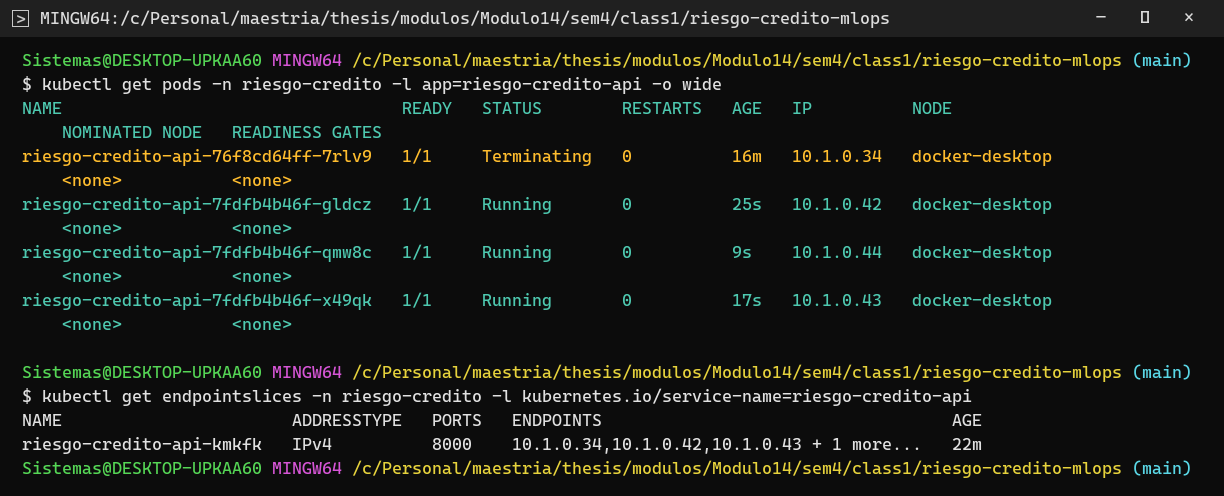
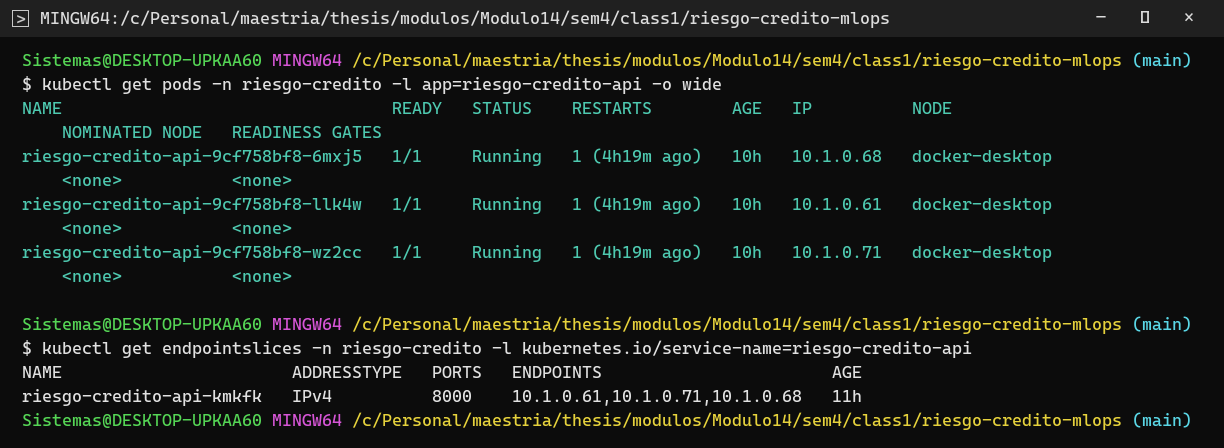
docs: correcciones de la revisión final (selección de modelos, compuerta, probes, estrategias de despliegue, nivel de madurez)
- La ganancia del boosting sobre el bosque se declara pequeña y no concluyente
  (DeLong pareado z≈2.5, inflado por elegir sobre la misma prueba) y se desempata
  por la restricción de latencia de predicción; configuraciones reales del
  boosting (max_iter es tope: early stopping en 103/49/104 árboles).
- Compuerta: el 0.75 es un piso conservador (0.71 + 0.04, 4-5 errores estándar),
  no «dos errores estándar»; comentario de registrar.py corregido.
- PR-AUC: se reconoce que la tabla de la clase pone mora → PR-AUC y se justifica
  el uso de roc_auc; pr_auc da el mismo orden entre familias.
- Probes en ARQUITECTURA (liveness en /vivo), rolling update no es blue-green,
  canary para riesgo de comportamiento; nivel de madurez 0 avanzado, en camino al 1.
- Evidencia de las 3 réplicas retomada con el clúster estable; pies de figura
  ajustados a lo que muestran (escalado, compuerta, cambio de versión).
- demo_cambio_version.sh usa el python del venv; armar_zip.py arma la entrega
  con la estructura docs/; publicar_repo.ps1 lo invoca; autor del Word.

diff --git a/docs/herramientas/build_informe.js b/docs/herramientas/build_informe.js
@@ -150,7 +150,7 @@ add(
     ["Documentación", "README.md, ARQUITECTURA.md, este informe y las evidencias", "Omar Terceros"],
   ], { cols: [2200, 5400, 1700] }),
   espacio(),
-  p("Historial de commits (uno por componente, en orden). Nota sobre el historial: el código se desarrolló y probó primero en local y los siete primeros commits se crearon por componente al consolidar el trabajo (por eso comparten hora); los siguientes reflejan las iteraciones reales del día (ajustes de MLflow 3, calibración del concept drift, evidencias, informe y correcciones de la revisión)."),
+  p("Historial de commits (git log, del más reciente al más antiguo; el registro se tomó al generar este informe, así que el commit que lo actualiza se ve solo en el repositorio). Nota sobre el historial: el código se desarrolló y probó primero en local y los siete primeros commits se crearon por componente al consolidar el trabajo (por eso comparten hora); los siguientes reflejan las iteraciones reales del día (ajustes de MLflow 3, calibración del concept drift, evidencias, informe y correcciones de la revisión)."),
   archivo("docs/evidencia/salidas/00-git-log.txt", 40),
 
   h1("3. Fase 1 — Modelo, experimentación y trazabilidad con MLflow"),
@@ -165,19 +165,19 @@ add(
   bullet(`${RUNS.length} ejecuciones con distintos algoritmos e hiperparámetros, todas sobre la misma partición y con las mismas métricas, por lo que son comparables entre sí: tres regresiones logísticas (C = 0.01, 0.1, 1), dos random forest (100 árboles/profundidad 8 y 200/12) y tres hist gradient boosting (learning rate 0.05 y 0.1 con 200 iteraciones, y 0.1 con 400 iteraciones y profundidad 4).`),
   h3("Por qué estas tres familias y estos ocho runs"),
   p("La selección sigue el criterio del módulo para elegir una técnica: el dato decide la familia, la pregunta decide la tarea y la métrica, y la restricción decide antes que la precisión. Dentro de la familia, los modelos se prueban como una escalera de tres escalones (línea base, modelo sólido, modelo exigente) y solo se sube un escalón si gana al anterior en la métrica principal sobre el mismo conjunto de prueba: el modelo correcto es el más simple que gana."),
-  bullet("Dato: una tabla con etiqueta (30.000 filas, 23 columnas, objetivo mora). Para tablas la escalera es logística → bosque → boosting. Las redes neuronales no son el camino: en datos tabulares de tamaño mediano los árboles con boosting siguen ganando a las redes (Grinsztajn et al., 2022) y exigen GPU y ajuste fino. KNN, Naive Bayes y K-Means no aplican (K-Means es sin etiqueta; KNN y Naive Bayes no son escalón de ninguna escalera tabular con 23 variables mixtas)."),
+  bullet("Dato: una tabla con etiqueta (30.000 filas, 23 columnas, objetivo mora). Para tablas la escalera es logística → bosque → boosting. Las redes neuronales no son el camino: en datos tabulares de tamaño mediano los árboles con boosting siguen ganando a las redes (Grinsztajn, Oyallon y Varoquaux, 2022) y piden más ajuste sin ganar. KNN, Naive Bayes y K-Means no aplican (K-Means es sin etiqueta; KNN y Naive Bayes no son escalón de ninguna escalera tabular con 23 variables mixtas)."),
   bullet("Pregunta: ¿entrará en mora el mes siguiente, sí o no? Es clasificación binaria con clase minoritaria (22 %), así que la métrica debe medir cómo ordena el modelo a los clientes (roc_auc, pr_auc) y no la exactitud, que se infla con el 78 % de no morosos."),
   bullet("Restricción: una decisión de crédito que hay que poder explicar (por eso la logística se conserva registrada como versión base), un servicio en línea que responde en milisegundos sin GPU (modelos tabulares de scikit-learn y la variante hist del boosting) y una clase minoritaria (umbral de decisión configurable en el ConfigMap y pr_auc registrada junto al AUC en todos los runs)."),
   bullet("Escalón 1, la línea base obligatoria: regresión logística. Es el punto de partida de toda clasificación: entrega una probabilidad, se interpreta (un coeficiente por variable) y fija el rival a vencer. Se probaron tres valores de C (0.01, 0.1 y 1: tres órdenes de magnitud de regularización L2) para demostrar que el techo de la familia (0.708 a 0.710) no depende del ajuste sino de la linealidad: los atrasos PAY_* y los montos interactúan y una frontera lineal no lo captura."),
-  bullet("Escalón 2, el modelo sólido: random forest. Es el segundo escalón por defecto en tablas: funciona casi sin ajustar, captura no linealidades e interacciones y es estable. Se probaron dos tamaños (100 árboles con profundidad 8 y 200 con profundidad 12) para ver si crecer aporta: pasó de 0.7734 a 0.7739, es decir, la familia ya saturó. Gana a la logística por 0.064 de AUC, muy por encima del error de muestreo (~0.007 con 6.000 clientes): se sube el escalón."),
-  bullet("Escalón 3, el modelo exigente: hist gradient boosting. Se prueba solo porque el bosque ya ganó y quedaba margen; es el modelo de referencia hoy en tablas cuando la precisión importa más que la explicación, y exige validación y early stopping (scikit-learn lo activa solo con más de 10.000 filas). La variante hist (histogramas, la misma idea que LightGBM) se eligió por latencia y volumen. Tres configuraciones recorren la tensión learning rate × número de árboles × profundidad (0.05 con 200 iteraciones, 0.1 con 200, y 0.1 con 400 y profundidad 4). Mejoró al bosque en roc_auc (0.7797 frente a 0.7739) y en pr_auc (0.5568 frente a 0.5563) y entrena más rápido (0.4 s): por eso es el champion. La mejora es pequeña y se declara como tal en la sección 8."),
+  bullet("Escalón 2, el modelo sólido: random forest. Es el segundo escalón por defecto en tablas: funciona casi sin ajustar, captura no linealidades e interacciones y es estable. Se probaron dos tamaños (100 árboles con profundidad 8 y 200 con profundidad 12) para ver si crecer aporta: pasó de 0.7734 a 0.7739, es decir, la familia ya saturó. Gana a la logística por 0.064 de AUC, muy por encima del error de muestreo (~0.008 con 6.000 clientes; con la prueba pareada de DeLong la diferencia vale z ≈ 8.8): se sube el escalón."),
+  bullet("Escalón 3, el modelo exigente: hist gradient boosting. Se prueba solo porque el bosque ya ganó y quedaba margen; es el modelo de referencia hoy en tablas cuando la precisión importa más que la explicación, y exige validación y early stopping (scikit-learn lo activa solo con más de 10.000 filas). La variante hist (histogramas, la misma idea que LightGBM) se eligió por latencia y volumen. Tres configuraciones: learning rate 0.05 y 0.1 sin tope de profundidad (hasta 31 hojas por árbol) y 0.1 con profundidad 4; max_iter (200, 200 y 400) es solo un tope, porque con el early stopping automático se detuvieron en 103, 49 y 104 árboles, así que lo que de verdad varió fue el learning rate y la profundidad. Frente al bosque la ganancia es pequeña (roc_auc 0.7797 frente a 0.7739; pr_auc 0.5568 frente a 0.5563) y, aunque la prueba pareada de DeLong la da significativa (z ≈ 2.5, p ≈ 0.01), se trata como ganancia pequeña y no concluyente: el champion se eligió mirando esta misma prueba entre cinco modelos de árboles, lo que infla la significancia, y no hay validación cruzada. Por la regla de la escalera, ante un empate queda el escalón más simple; lo que inclina al boosting es la restricción declarada de latencia: con 104 árboles de profundidad 4 predice una fila en unos 6 ms, frente a unos 50 ms del bosque de 200 árboles de profundidad 12 (medido en esta laptop; no es una métrica del run), y además no pierde en ninguna métrica registrada. Si la latencia no importara, el bosque sería igual de defendible (sección 8)."),
   p("Escrita como se pide en el módulo, la justificación es una tabla de iteraciones con una fila de descartados, no una opinión:"),
   tabla(["Iteración", "Modelo", "Complejidad", "roc_auc", "pr_auc", "Entrena", "Decisión"], [
     ["Línea base trivial", "Clase mayoritaria (nadie entra en mora)", "ninguna", "0.500", "0.221", "—", "exactitud 0.78 sin servir para nada: rival mínimo"],
     ["Escalón 1", "Regresión logística (mejor: C = 1)", "baja, interpretable", "0.7100", "0.4948", "0.1 s", "gana a la trivial; queda como versión 1 (baseline y rollback)"],
     ["Escalón 2", "Random forest (200 árboles, profundidad 12)", "media", "0.7739", "0.5563", "1.5 s", "gana con claridad (+0.064 AUC): se sube"],
-    ["Escalón 3", "Hist gradient boosting (lr 0.1, profundidad 4, early stopping)", "alta", "0.7797", "0.5568", "0.4 s", "gana por poco en ambas métricas y es más rápido: champion (versión 2)"],
-    ["Descartado", "Red neuronal (MLP / deep learning)", "muy alta", "no evaluado", "—", "—", "tabla de 30.000 filas: no gana a los árboles (Grinsztajn et al., 2022) y pide GPU y ajuste"],
+    ["Escalón 3", "Hist gradient boosting (lr 0.1, profundidad 4, early stopping)", "alta", "0.7797", "0.5568", "0.4 s", "ganancia pequeña y no concluyente frente al bosque; la inclina la latencia de predicción (~6 ms frente a ~50 ms por fila): champion (versión 2)"],
+    ["Descartado", "Red neuronal (MLP / deep learning)", "muy alta", "no evaluado", "—", "—", "tabla de 30.000 filas: no gana a los árboles (Grinsztajn et al., 2022); entraría solo si venciera al bosque en la prueba: es el siguiente experimento"],
     ["Descartado", "KNN, Naive Bayes, SVM con kernel, árbol único", "—", "no evaluado", "—", "—", "no son escalón de la escalera tabular; el árbol solo es inestable; SVM con kernel no escala a 24.000 filas"],
   ], { cols: [1150, 2250, 1100, 800, 750, 650, 3540] }),
   espacio(),
@@ -211,8 +211,8 @@ add(
     [`models:/${M.nombre_registro}@${M.baseline.alias}`, String(M.baseline.version), M.baseline.run_id, M.baseline.run_name, f4(M.baseline.roc_auc), "Modelo base / rollback"],
   ], { cols: [2600, 800, 2600, 1500, 800, 1900], mono: [0, 2] }),
   espacio(),
-  p("Compuerta de calidad (quality gate): registrar.py no mueve el alias champion a ciegas. El candidato tiene que alcanzar un roc_auc mínimo de 0.75 (el modelo base logístico, 0.71, más un margen de unos dos errores estándar del AUC con 6.000 clientes: el candidato debe ser claramente mejor que el modelo simple) y además superar al champion actual si ya hay uno; si no cumple, el script termina con error y el alias no cambia. Es el candado que evita que un reentrenamiento con datos malos reemplace al modelo en producción por uno peor. Hoy el candidato es el mejor run del experimento; en un entrenamiento continuo sería el run recién entrenado."),
-  figure("02-registrar.png", "Salida de entrenamiento/registrar.py: versiones registradas, alias, el run de cada una y la compuerta de calidad aprobando al candidato."),
+  p("Compuerta de calidad (quality gate): registrar.py no mueve el alias champion a ciegas. El candidato tiene que alcanzar un roc_auc mínimo de 0.75 (el modelo base logístico, 0.71, más 0.04, unas cuatro o cinco veces el error estándar del AUC con 6.000 clientes, ~0.0086 según Hanley-McNeil: un piso redondeado y conservador para que el candidato sea claramente mejor que el modelo simple) y además superar al champion actual si ya hay uno; si no cumple, el script termina con error y el alias no cambia. Si el candidato ya es la versión champion (como en la figura siguiente, donde el registro se volvió a ejecutar), la compuerta solo reconfirma el piso de 0.75; la condición de superar al champion se aplica a una versión nueva. Es el candado que evita que un reentrenamiento con datos malos reemplace al modelo en producción por uno peor. Hoy el candidato es el mejor run del experimento; en un entrenamiento continuo sería el run recién entrenado."),
+  figure("02-registrar.png", "Salida de entrenamiento/registrar.py: versiones registradas, alias, el run de cada una y la compuerta de calidad reconfirmando a la versión 2 como champion (el candidato ya era el champion, así que solo se verifica el piso de 0.75)."),
   figure("mlflow-03-registry.png", "Model Registry en la interfaz de MLflow: el modelo riesgo-credito con sus versiones y alias."),
   figure("mlflow-04-version-champion.png", `Detalle de la versión ${M.version} (alias champion) en el registro, con el enlace al run que la produjo.`),
 
@@ -250,7 +250,7 @@ add(
   figure("05-k8s-despliegue.png", "kubectl apply, espera del rollout y todos los objetos del namespace riesgo-credito."),
 
   h2("5.1 Demostración 1: tres réplicas en Running simultáneamente"),
-  figure("06-k8s-replicas-running.png", "Los 3 pods del Deployment en estado Running y READY 1/1, y el EndpointSlice del Service con las tres IPs."),
+  figure("06-k8s-replicas-running.png", "Los 3 pods del Deployment en Running y READY 1/1, y el EndpointSlice del Service con exactamente esas tres IPs. RESTARTS 1: la máquina se reinició durante la mañana y Kubernetes relanzó los contenedores por su cuenta."),
 
   h2("5.2 Demostración 2: el tráfico se distribuye entre réplicas"),
   p("Cada respuesta de la API devuelve el nombre del pod que la atendió (variable POD_NAME inyectada por Kubernetes). El script scripts/demo_balanceo.sh envía 12 peticiones sucesivas al Service (http://localhost:30080) y cuenta cuántas atendió cada pod."),
@@ -261,14 +261,14 @@ add(
   figure("08-k8s-autorreparacion.png", "Bucle de peticiones concurrente con kubectl delete pod: todas devuelven HTTP 200, el pod eliminado desaparece y el ReplicaSet crea uno nuevo (edad de segundos) que queda en Running."),
 
   h2("5.4 Demostración 4: escalado"),
-  p("kubectl scale cambia el número de réplicas de 3 a 5 y luego de vuelta a 3; con 5 réplicas el balanceo reparte las peticiones entre los cinco pods."),
-  figure("09-k8s-escalado.png", "Escalado a 5 réplicas, reparto de 10 peticiones entre cinco pods y vuelta a 3 réplicas."),
+  p("kubectl scale cambia el número de réplicas de 3 a 5 y luego de vuelta a 3. Con 5 réplicas en Running, 10 peticiones se repartieron entre cuatro de los cinco pods: kube-proxy elige un pod al azar en cada conexión, así que con más peticiones aparecen los cinco."),
+  figure("09-k8s-escalado.png", "Escalado a 5 réplicas en Running, reparto de 10 peticiones entre cuatro de ellas y vuelta a 3 réplicas."),
 
   h2("5.5 Trazabilidad en vivo"),
   pr(["GET /info del servicio desplegado devuelve el pod, el servidor de MLflow y el modelo cargado: nombre, alias, versión y run. Coincide con entrenamiento/modelo_desplegado.json y con lo que muestra el Model Registry: el modelo que sirve peticiones en el clúster es exactamente la versión ", b(String(M.version)), " del run ", mono(M.run_id), "."]),
   figure("10-k8s-trazabilidad.png", "GET /info contra el Service de Kubernetes y el archivo modelo_desplegado.json: misma versión y mismo run."),
   h3("Cambio de versión en producción sin reconstruir la imagen (rollback y promoción)"),
-  p(`scripts/demo_cambio_version.sh ejecuta el ciclo completo: mueve el alias champion a la versión ${M.baseline.version} (rollback al modelo base) con scripts/cambiar_champion.py, hace kubectl rollout restart y, con maxSurge 1 / maxUnavailable 0, los pods se renuevan sin que el servicio se corte; GET /info pasa a devolver la versión ${M.baseline.version} y su run. Después vuelve a mover el alias a la versión ${M.version} y repite el rolling update: el servicio vuelve a servir el champion. Es exactamente lo que haría el equipo cuando un challenger gane o cuando haya que volver atrás.`),
+  p(`scripts/demo_cambio_version.sh ejecuta el ciclo completo: mueve el alias champion a la versión ${M.baseline.version} (rollback al modelo base) con scripts/cambiar_champion.py, hace kubectl rollout restart y, con maxSurge 1 / maxUnavailable 0, los pods se renuevan de a uno sin bajar de 3 pods listos (maxUnavailable 0); GET /info pasa a devolver la versión ${M.baseline.version} y su run. Después vuelve a mover el alias a la versión ${M.version} y repite el rolling update: el servicio vuelve a servir el champion. Es exactamente lo que haría el equipo cuando un challenger gane o cuando haya que volver atrás.`),
   figure("16-k8s-cambio-version.png", `Rollback y promoción por alias: /info antes (versión ${M.version}), tras mover el alias a la versión ${M.baseline.version} y reiniciar (versión ${M.baseline.version}), y al final de nuevo la versión ${M.version}; todo sin tocar la imagen.`),
 );
 
@@ -329,7 +329,7 @@ add(
 
 add(
   h1("7. Puntos extra — API y consumo desde una interfaz"),
-  p("La API (FastAPI) expone POST /predecir, GET /health, GET /info y GET /esquema, con documentación Swagger en /docs y validación de entradas con Pydantic (rangos del diccionario de datos: un SEX = 3 o una edad de 10 años devuelven 422)."),
+  p("La API (FastAPI) expone POST /predecir, GET /health, GET /vivo, GET /info y GET /esquema, con documentación Swagger en /docs y validación de entradas con Pydantic (rangos del diccionario de datos: un SEX = 3 o una edad de 10 años devuelven 422)."),
   p("La interfaz es una página HTML con JavaScript (ui/index.html) servida por nginx dentro del clúster (Deployment riesgo-credito-ui, Service NodePort 30081). nginx hace de proxy inverso de /api/ hacia el Service riesgo-credito-api por DNS interno del clúster (riesgo-credito-api.riesgo-credito.svc.cluster.local), de modo que el consumo es real contra el servicio desplegado en Kubernetes y no contra un proceso local; el navegador solo habla con la UI y no hace falta CORS. La página construye el formulario desde GET /esquema, trae dos ejemplos (bajo y alto riesgo), muestra la probabilidad de mora, el pod que atendió y la versión/run del modelo, y tiene un botón de ráfaga de 12 peticiones que lista qué pod atendió cada una (balanceo visible desde la interfaz)."),
   figure("ui-01-prediccion.png", "Interfaz web en http://localhost:30081: predicción de un solicitante de alto riesgo con el pod que la atendió y la versión del modelo."),
   figure("ui-02-rafaga.png", "Ráfaga de 12 peticiones desde la interfaz: las atienden pods distintos del Deployment."),
@@ -352,24 +352,24 @@ add(
   ], { cols: [3000, 6300] }),
   espacio(),
   h3("Limitaciones reconocidas"),
-  bullet("La elección del champion se hizo sobre el conjunto de prueba (no hay un conjunto de validación separado ni validación cruzada) y los cinco modelos de árboles están a menos de 0.007 de roc_auc entre sí, dentro del error de muestreo con n = 6.000. El énfasis del proyecto es la ingeniería; para un desempate riguroso se usaría validación cruzada estratificada (5 particiones) registrando en MLflow la media y la desviación de roc_auc. Con la regla estricta de la clase de modelos (subir un escalón solo si la ganancia supera la variación), el paso del bosque al boosting es un empate técnico y el bosque sería igualmente defendible como champion; se eligió el boosting por ganar en las dos métricas y entrenar más rápido, y se declara."),
-  bullet("HistGradientBoostingClassifier activa early stopping automáticamente con más de 10.000 filas: max_iter es un tope, no el número de iteraciones entrenadas (el champion, declarado con max_iter = 400, se detuvo en 104 iteraciones por su criterio interno de validación con el 10 % del train; por eso entrena en décimas de segundo). Los runs hgb difieren de verdad en learning_rate y max_depth; en una siguiente iteración se registraría n_iter_ como métrica de cada run."),
+  bullet("La elección del champion se hizo sobre el conjunto de prueba (no hay un conjunto de validación separado ni validación cruzada) y los cinco modelos de árboles están a menos de 0.007 de roc_auc entre sí. El champion le gana al mejor bosque por 0.0059; con la prueba pareada de DeLong sobre la misma prueba esa diferencia tiene un error estándar de 0.0023 (z ≈ 2.5, p ≈ 0.01), pero no se presenta como victoria: el champion se eligió mirando esta misma prueba entre cinco modelos de árboles, lo que infla la significancia. Se trata como una ganancia pequeña y no concluyente, desempatada por la restricción de latencia de predicción; el bosque sería igualmente defendible. El énfasis del proyecto es la ingeniería; el desempate riguroso sería validación cruzada estratificada (5 particiones) o bootstrap, registrando en MLflow la media y la desviación de roc_auc."),
+  bullet("HistGradientBoostingClassifier activa early stopping automáticamente con más de 10.000 filas: max_iter es un tope, no el número de iteraciones entrenadas (los tres runs hgb, declarados con max_iter 200, 200 y 400, se detuvieron en 103, 49 y 104 iteraciones por su criterio interno de validación con el 10 % del train). El champion entrena en 0.4 s porque sus árboles son chicos (profundidad 4): con profundidad libre y learning rate 0.05, un número parecido de árboles (103) tardó 3.6 s. Los runs hgb difieren de verdad en learning_rate y max_depth; en una siguiente iteración se registraría n_iter_ como métrica de cada run."),
   bullet("El servidor de MLflow corre en la máquina anfitriona con SQLite: válido para la demo y para la defensa, pero en producción sería un servicio compartido con base de datos y almacén de artefactos propios, desplegado en el clúster o en la nube."),
   h3("Preguntas probables y respuesta corta"),
-  bullet("¿Por qué ese modelo y no la regresión logística? Porque se subió la escalera de la clase de modelos: la logística es la línea base obligatoria (0.710) y perdió con claridad frente al bosque (0.774, una diferencia nueve veces mayor que el error de muestreo); el boosting se probó porque el bosque ya había ganado y quedaba margen, y ganó al bosque en roc_auc y pr_auc entrenando más rápido. Cada escalón se subió solo porque ganó al anterior sobre la misma partición de prueba. La logística queda registrada como versión base para rollback y como referencia de interpretabilidad."),
-  bullet("¿Por qué tres regresiones logísticas, dos random forest y tres gradient boosting? Porque son los tres escalones de la escalera para tablas con etiqueta (línea base, modelo sólido, modelo exigente) y en cada escalón se varió el hiperparámetro que define a la familia: C en la logística (tres órdenes de magnitud, para probar que su techo es la linealidad y no la regularización), tamaño y profundidad en el bosque (para ver que crecer ya no aporta) y learning rate, iteraciones y profundidad en el boosting (la tensión clásica entre paso y número de árboles). Los números muestran que la familia pesa más que el ajuste: dentro de cada familia las diferencias son de milésimas; entre familias, de centésimas."),
-  bullet("¿Por qué roc_auc como principal y no PR-AUC, si la clase es minoritaria? Porque la clase positiva es el 22 %: minoritaria pero no rara (la regla de usar PR-AUC como principal es para clases del orden de 1 en 100) y la decisión usa la probabilidad con un umbral ajustable, que es justo lo que el AUC compara sin fijar umbral. De todos modos pr_auc se registra en todos los runs y da el mismo orden (azar 0.22 → logística 0.49 → bosque 0.556 → boosting 0.557), y se reconoce que en un dominio con 1 % de positivos la principal sería PR-AUC con recall a precisión fija."),
-  bullet("¿Por qué no deep learning? Porque el dato es una tabla de 30.000 filas: en datos tabulares los árboles con boosting siguen ganando a las redes (Grinsztajn et al., 2022), una red exige GPU, más datos y ajuste fino, y la regla del módulo es que una red solo se justifica si vence al bosque en la prueba; aquí el escalón 3 ya cumplió con margen escaso, así que una red no tendría dónde ganar."),
+  bullet("¿Por qué ese modelo y no la regresión logística? Porque se subió la escalera de la clase de modelos: la logística es la línea base obligatoria (0.710) y perdió con claridad frente al bosque (0.774: una diferencia de casi nueve errores estándar con la prueba pareada de DeLong, z ≈ 8.8); el boosting se probó porque el bosque ya había ganado y quedaba margen, y frente al bosque la ganancia es pequeña y no concluyente (+0.006), desempatada por la restricción de latencia de predicción (unos 6 ms frente a unos 50 ms por fila) y porque no pierde en ninguna métrica registrada. La logística queda registrada como versión base para rollback y como referencia de interpretabilidad; el bosque sería igualmente defendible."),
+  bullet("¿Por qué tres regresiones logísticas, dos random forest y tres gradient boosting? Porque son los tres escalones de la escalera para tablas con etiqueta (línea base, modelo sólido, modelo exigente) y en cada escalón se varió el hiperparámetro que define a la familia: C en la logística (tres órdenes de magnitud, para probar que su techo es la linealidad y no la regularización), tamaño y profundidad en el bosque (para ver que crecer ya no aporta) y learning rate y profundidad en el boosting (el número de árboles lo fija el early stopping: 103, 49 y 104). Los números muestran que la familia pesa más que el ajuste: dentro de cada familia las diferencias son de milésimas; entre familias, de centésimas."),
+  bullet("¿Por qué roc_auc como principal y no PR-AUC, si la clase es minoritaria? La tabla maestra de la clase pone la mora con PR-AUC, y la lámina de métricas advierte que el ROC-AUC se infla con la clase mayoritaria. Me aparté de eso y lo declaro: usé roc_auc como principal porque la decisión de crédito usa la probabilidad con un umbral ajustable, y un 22 % de positivos (1.327 morosos en la prueba) no es una clase extrema. Pero pr_auc está registrado en los 8 runs y da el mismo orden entre familias tomando el mejor run de cada una (azar 0.221 → logística 0.495 → bosque 0.556 → boosting 0.557); dentro de los árboles el orden cambia: el bosque de 200 árboles supera a dos de los tres boosting y queda a 0.0005 del champion. Con precisión ≥ 0.5, el champion recupera el 60 % de los morosos, el bosque el 59 % y la logística el 50 % (cálculo posterior sobre la misma prueba, no registrado en MLflow)."),
+  bullet("¿Por qué no deep learning? Porque el dato es una tabla de 30.000 filas, y en tablas los modelos de árboles siguen ganando a las redes (Grinsztajn, Oyallon y Varoquaux, 2022). La regla de la clase es que una red entra solo si vence al bosque en la prueba. No se registró como run: queda en la fila de descartados como el siguiente experimento."),
   bullet("¿Cómo sé que el pod sirve el modelo del registro? GET /info y cada respuesta devuelven versión y run_id; coinciden con el alias champion en el Model Registry y con modelo_desplegado.json."),
   bullet("¿Qué pasa si se cae el servidor de MLflow? Los pods que ya cargaron el modelo siguen sirviendo (está en memoria). Un pod nuevo reintenta la carga cada 10 s y, mientras tanto, la readiness (/health en 503) lo deja fuera del Service; la liveness apunta a /vivo, que responde mientras el proceso esté vivo, así que Kubernetes no lo reinicia por una caída de MLflow."),
   bullet("¿Data drift siempre implica reentrenar? No: se vigila. Reentrenar lo decide el concept drift (la métrica cae de forma sostenida). El data drift sí obliga a investigar la fuente de datos."),
   bullet("¿Por qué KS para numéricas y chi-cuadrado para categóricas? KS compara distribuciones continuas sin suponer forma; en categorías no hay orden ni acumulada, así que se comparan proporciones por categoría con chi-cuadrado; el PSI sirve para ambas y es el estándar del dominio."),
-  bullet("¿Cómo se cambia de versión sin cortar el servicio? Se mueve el alias champion a la nueva versión y se hace kubectl rollout restart: con maxSurge 1 y maxUnavailable 0 nunca hay menos de 3 pods listos (sección 5.5 lo muestra ejecutado)."),
-  bullet("¿Cuándo se reentrena? Por los tres disparadores vistos en clase: por tiempo (un CT programado), por rendimiento (la métrica real del lote cae: el criterio de concept drift) y por drift (un data drift rojo obliga a investigar y vigilar; en este proyecto no reentrena solo, porque un cambio en X no implica que la regla haya cambiado). El modelo reentrenado es un challenger que pasa por la misma compuerta de calidad antes de reemplazar al champion."),
-  bullet("¿Blue-green, canary o A/B? El Deployment hace rolling update (maxSurge 1, maxUnavailable 0), la forma básica de blue-green progresivo con rollback inmediato (kubectl rollout undo o mover el alias). Un canary daría el 10 % del tráfico a un segundo Deployment del challenger detrás del mismo Service, y un A/B compararía la métrica de negocio de ambos con una prueba estadística. No se implementaron porque el enunciado no lo pide, pero el diseño lo permite sin cambiar la imagen."),
+  bullet("¿Cómo se cambia de versión sin cortar el servicio? Se mueve el alias champion a la nueva versión y se hace kubectl rollout restart: con maxSurge 1 y maxUnavailable 0 Kubernetes no baja de 3 pods listos durante el rollout: lo garantiza la estrategia del manifiesto; la sección 5.5 muestra el cambio de versión ejecutado y la 5.3 muestra que el Service no corta el tráfico cuando sale un pod."),
+  bullet("¿Cuándo se reentrena? En la clase vimos tres disparadores. En este proyecto está implementado el de rendimiento: caída de roc_auc > 0.05 durante 3 lotes (o > 0.12 en uno), que es el criterio de concept drift. El de tiempo (un CT programado) sería el siguiente paso, junto con CI/CD. El data drift no reentrena solo: obliga a investigar la fuente, porque un cambio en X no implica que la regla haya cambiado. Todo modelo reentrenado es un challenger que pasa por la misma compuerta de calidad antes de reemplazar al champion."),
+  bullet("¿Blue-green, canary o A/B? El Deployment hace rolling update (maxSurge 1, maxUnavailable 0): reemplaza los pods de a uno, sin dos entornos gemelos, así que no es blue-green estricto, aunque comparte con él el rollback rápido (kubectl rollout undo o mover el alias). Como cambiar el modelo es un riesgo de comportamiento, lo indicado según la clase es canary: un segundo Deployment del challenger con el 10 % del tráfico detrás del mismo Service. Blue-green (dos entornos completos, el doble de costo) se reserva para riesgo de infraestructura. Un A/B compararía la métrica de negocio de ambos con una prueba estadística. No se implementaron porque el enunciado no lo pide, pero el diseño lo permite sin cambiar la imagen."),
   bullet("¿Qué se monitorea? Las tres capas: técnica (probes, kubectl get pods y los restarts: ¿está vivo?), datos y modelo (data drift por variable, PSI del score, tasa de positivos, roc_auc por lote: ¿entiende el mundo de hoy?) y negocio (tasa de mora real de la cartera aprobada y pérdida esperada frente al ingreso por créditos: ¿genera valor?; no se implementó porque el dataset no trae montos de pérdida)."),
   bullet("¿Por qué umbral de decisión 0.5? roc_auc mide si el modelo ordena bien a los clientes, independiente del umbral. El umbral lo fija el negocio según el costo de un falso negativo (aprobar a un moroso) frente a un falso positivo (rechazar a un buen cliente); 0.5 es provisional y configurable en el ConfigMap (UMBRAL_MORA); con costos reales bajaría a 0.2–0.3 para ganar recall."),
-  bullet("¿Nivel de madurez? Nivel 1: tracking y registry en MLflow, despliegue reproducible con scripts y manifiestos, validación de datos y drift automatizados con pytest; falta orquestar CI/CD/CT (GitHub Actions), que el enunciado deja fuera."),
+  bullet("¿Nivel de madurez? Nivel 0 avanzado, en camino al 1 (escala de Google vista en clase). Hay tracking y registry en MLflow, despliegue reproducible con imagen y manifiestos, compuerta de calidad al registrar (registrar.py) y validación de datos y drift automatizados con pytest. El nivel 1 exige entrenamiento continuo (CT) orquestado, y eso no está: las piezas que lo dispararían ya existen (el criterio de concept drift y la compuerta), pero falta orquestarlas con CI/CD/CT (GitHub Actions), que el enunciado deja fuera."),
 );
 
 add(
@@ -394,6 +394,7 @@ add(
 FIGS.forEach((f) => children.push(bullet(`Figura ${f.n} (${f.file}): ${f.caption}`)));
 
 const doc = new Document({
+  creator: "Omar Terceros Vallejos", lastModifiedBy: "Omar Terceros Vallejos", title: "Proyecto final ML-Ops: riesgo de crédito (riesgo-credito-mlops)",
   styles: { default: { document: { run: { font: "Calibri", size: 22 } } } },
   sections: [{ properties: { page: { size: { width: 12240, height: 15840 }, margin: { left: 1000, right: 1000, top: 1134, bottom: 1134 } } }, children }],
 });

diff --git a/docs/herramientas/armar_zip.py b/docs/herramientas/armar_zip.py
@@ -1,0 +1,38 @@
+"""Arma el zip de entrega (riesgo-credito-mlops_entrega.zip, en la raiz del repositorio) con la
+misma estructura de carpetas que el repositorio, para que los enlaces relativos del README y de
+ARQUITECTURA.md (docs/diagramas/..., docs/postman/..., docs/evidencia/...) funcionen al abrirlo.
+
+Contenido: README.md, ARQUITECTURA.md, docs/Informe_ProyectoFinal_MLOps.docx, docs/diagramas/,
+docs/evidencia/ y docs/postman/.
+
+Uso (desde cualquier carpeta):  python docs/herramientas/armar_zip.py
+"""
+from __future__ import annotations
+
+import os
+import zipfile
+from pathlib import Path
+
+RAIZ = Path(__file__).resolve().parent.parent.parent
+SALIDA = RAIZ / "riesgo-credito-mlops_entrega.zip"
+ARCHIVOS = ["README.md", "ARQUITECTURA.md", "docs/Informe_ProyectoFinal_MLOps.docx"]
+CARPETAS = ["docs/diagramas", "docs/evidencia", "docs/postman"]
+
+
+def main() -> int:
+    n = 0
+    with zipfile.ZipFile(SALIDA, "w", zipfile.ZIP_DEFLATED) as z:
+        for a in ARCHIVOS:
+            z.write(RAIZ / a, a)
+            n += 1
+        for c in CARPETAS:
+            for ruta in sorted((RAIZ / c).rglob("*")):
+                if ruta.is_file():
+                    z.write(ruta, ruta.relative_to(RAIZ).as_posix())
+                    n += 1
+    print(f"ok: {SALIDA} ({n} archivos, {os.path.getsize(SALIDA) / 1e6:.1f} MB)")
+    return 0
+
+
+if __name__ == "__main__":
+    raise SystemExit(main())

diff --git a/entrenamiento/registrar.py b/entrenamiento/registrar.py
@@ -30,9 +30,10 @@ ALIAS_BASE = "baseline"
 ARCHIVO_DESPLEGADO = RAIZ / "entrenamiento" / "modelo_desplegado.json"
 
 # Compuerta de calidad (quality gate): ningun modelo llega a champion si no supera este
-# roc_auc minimo Y al champion actual (si existe). 0.75 = el modelo base logistico (0.71) mas
-# un margen de ~2 errores estandar del AUC con 6.000 clientes (~0.015): el candidato tiene que
-# ser claramente mejor que el modelo simple, no apenas distinto.
+# roc_auc minimo Y al champion actual (si existe). 0.75 = piso redondeado y conservador: el modelo base
+# logistico (0.71) mas 0.04, unas 4-5 veces el error estandar del AUC con 6.000 clientes (~0.0086,
+# Hanley-McNeil; con 2 errores estandar el piso seria ~0.727): el candidato tiene que ser
+# claramente mejor que el modelo simple, no apenas distinto.
 ROC_AUC_MINIMO = 0.75
 
 

diff --git a/ARQUITECTURA.md b/ARQUITECTURA.md
@@ -86,12 +86,16 @@ más simple que gana.
 | Línea base trivial | clase mayoritaria | rival mínimo: exactitud 0,78 sin servir para nada | 0,500 | 0,221 | — |
 | 1 · línea base | regresión logística, C = 0.01 / 0.1 / 1 | obligatoria en toda clasificación: probabilidad e interpretación; tres órdenes de magnitud de C para mostrar que el techo es la linealidad, no la regularización | 0,710 | 0,495 | versión 1 `baseline` (rollback) |
 | 2 · modelo sólido | random forest, 100 árboles/prof. 8 y 200/prof. 12 | escalón 2 por defecto en tablas: no linealidades e interacciones casi sin ajustar; dos tamaños para ver que crecer ya no aporta (0,7734 → 0,7739) | 0,774 | 0,556 | gana con claridad (+0,064): se sube |
-| 3 · modelo exigente | hist gradient boosting, lr 0.05/0.1, 200/400 it., prof. 4 | solo porque el bosque ganó y quedaba margen; variante *hist* (histogramas, como LightGBM) por latencia; early stopping automático | 0,780 | 0,557 | gana por poco en ambas y entrena en 0,4 s: versión 2 `champion` |
+| 3 · modelo exigente | hist gradient boosting, lr 0.05/0.1, profundidad libre o 4 (max_iter es tope: el early stopping paró en 103/49/104 árboles) | solo porque el bosque ganó y quedaba margen; variante *hist* (histogramas, como LightGBM) por latencia | 0,780 | 0,557 | ganancia pequeña y no concluyente; la inclina la latencia de predicción (~6 ms frente a ~50 ms por fila): versión 2 `champion` |
 | Descartados | MLP / deep learning; KNN, Naive Bayes, SVM con kernel, árbol único | no son escalón de la escalera tabular, no escalan a 24.000 filas o no ganan a los árboles | — | — | no evaluados |
 
 Dentro de cada familia las diferencias son de milésimas y entre familias de centésimas: la
-familia pesa más que el ajuste fino. El paso del bosque al boosting está dentro del error de
-muestreo (~0,007 con 6.000 clientes) y se declara como tal: el bosque sería igualmente
+familia pesa más que el ajuste fino. El paso del bosque al boosting es una ganancia pequeña y no concluyente (+0,006 de roc_auc; la
+prueba pareada de DeLong da z ≈ 2,5, pero el champion se eligió mirando esta misma prueba entre
+cinco modelos de árboles y no hay validación cruzada). Por la regla de la escalera, ante un empate
+queda el más simple; lo que inclina al boosting es la restricción declarada de latencia: predice
+una fila en unos 6 ms frente a unos 50 ms del bosque de 200 árboles (medido en esta laptop; no es
+una métrica del run), sin perder en ninguna métrica registrada. El bosque sería igualmente
 defendible. Todos los runs comparten partición y métricas para poder argumentar la elección con la
 vista de comparación de MLflow y no "porque fue el primero que vi". El preprocesamiento (one-hot
 de SEX/EDUCATION/MARRIAGE y escalado) va dentro del pipeline, así lo que se empaqueta es el
@@ -117,7 +121,7 @@ no lo reinicia (reiniciarlo no arreglaría nada y provocaría un CrashLoopBackOf
 
 **Kubernetes.** Namespace propio, Deployment con 3 réplicas (alta disponibilidad), `POD_NAME`
 inyectado por `fieldRef` para demostrar el balanceo, `requests`/`limits` porque los modelos
-consumen memoria, readiness/liveness sobre `/health`, y rolling update con `maxSurge: 1` /
+consumen memoria, readiness sobre `/health` (tráfico solo con el modelo cargado) y liveness sobre `/vivo` (reinicia solo si el proceso dejó de responder), y rolling update con `maxSurge: 1` /
 `maxUnavailable: 0` para cambiar de versión sin cortar el servicio. El Service NodePort reparte
 las conexiones entre los pods.
 
@@ -147,7 +151,7 @@ producción:
 | Modelo | Compuerta de calidad al registrar: un candidato solo toma el alias `champion` si su roc_auc ≥ 0.75 **y** supera al champion actual; si no, el alias no se mueve | `entrenamiento/registrar.py` |
 
 **Disparadores de reentrenamiento** (los tres de la clase): por tiempo (un CT programado,
-por ejemplo semanal, como el `ct.yml` de la heladería del docente), por rendimiento (la
+por ejemplo semanal, como el `ct.yml` de la heladería del docente; no implementado en este proyecto), por rendimiento (la
 métrica real del lote cae: es el criterio de concept drift, 0.05 sostenido 3 lotes) y por
 drift de datos (en este proyecto el data drift rojo no reentrena solo: investiga y vigila,
 porque un cambio en X no implica que la regla haya cambiado). El reentrenamiento produce un
@@ -155,9 +159,11 @@ challenger que pasa por la misma compuerta antes de reemplazar al champion.
 
 **Estrategias de despliegue.** El Deployment usa rolling update con `maxSurge: 1` y
 `maxUnavailable: 0`: nunca hay menos de 3 pods listos y, si la versión nueva no carga, los
-pods viejos siguen sirviendo (rollback con `kubectl rollout undo` o moviendo el alias). Es la
-forma básica de blue-green progresivo. Un canary real (10 % del tráfico al challenger) se haría
-con un segundo Deployment de 1 réplica con la misma etiqueta `app` detrás del mismo Service (o
+pods viejos siguen sirviendo (rollback con `kubectl rollout undo` o moviendo el alias). No es
+blue-green estricto (no hay dos entornos gemelos), aunque comparte con él el rollback rápido. Como
+cambiar el modelo es un riesgo de comportamiento, lo indicado según la clase es canary; blue-green
+(dos entornos completos, el doble de costo) se reserva para riesgo de infraestructura. Un canary
+real (10 % del tráfico al challenger) se haría con un segundo Deployment de 1 réplica con la misma etiqueta `app` detrás del mismo Service (o
 con un ingress con pesos); un A/B testing compararía la métrica de negocio de ambos con una
 prueba estadística antes de decidir. No se implementaron porque el enunciado no lo pide.
 
@@ -203,8 +209,9 @@ confirman la caída.
 
 **Limitaciones reconocidas.** El champion se eligió sobre el conjunto de prueba, sin validación
 separada ni validación cruzada, y los modelos de árboles están a menos de 0.007 de roc_auc entre
-sí (dentro del error de muestreo); un desempate riguroso usaría validación cruzada estratificada
-registrada en MLflow. HistGradientBoosting aplica early stopping automático con más de 10.000
+sí: la diferencia champion-bosque es pequeña y no concluyente (DeLong pareado z ≈ 2,5, inflado por
+elegir sobre la misma prueba); un desempate riguroso usaría validación cruzada estratificada o
+bootstrap registrados en MLflow. HistGradientBoosting aplica early stopping automático con más de 10.000
 filas: `max_iter` es un tope (el champion se detuvo en 104 iteraciones). Las variables ordinales
 PAY_* se tratan como categóricas (chi-cuadrado + PSI); una alternativa sensible al orden sería
 KS o Mann-Whitney sobre los códigos.

diff --git a/README.md b/README.md
@@ -82,14 +82,14 @@ riesgo-credito-mlops/
 ├── comun/            esquema.py (23 variables, tipos, ejemplos) · datos.py (carga, md5, partición)
 ├── datos/            descargar.py · credito.csv
 ├── entrenamiento/    entrenar.py (8 runs) · registrar.py (registry, alias) · modelo_desplegado.json
-├── servicio/         api.py (FastAPI: /predecir, /health, /info, /esquema)
+├── servicio/         api.py (FastAPI: /predecir, /health, /vivo, /info, /esquema)
 ├── Dockerfile        imagen del servicio (python:3.13-slim, usuario sin privilegios)
 ├── k8s/              00 namespace · 01 configmap · 02 deployment · 03 service · 04-05 UI
 ├── ui/               index.html + nginx.conf (proxy /api/ -> Service)
 ├── monitoreo/        validar_datos.py · data_drift.py · lotes.py · concept_drift.py · lotes/*.csv · salidas/
 ├── tests/            24 pruebas (API, validación de datos, data drift, concept drift, puerta del lote)
-├── scripts/          mlflow_server · entrenar_y_registrar · desplegar_k8s · demo_balanceo
-└── docs/             informe (Word), evidencia (capturas y salidas de terminal), herramientas
+├── scripts/          mlflow_server · entrenar_y_registrar · desplegar_k8s · demo_balanceo · demo_autorreparacion · demo_cambio_version · cambiar_champion · generar_configmap_ui · publicar_repo
+└── docs/             informe (Word), diagramas (draw.io/SVG/PNG), evidencia (capturas y salidas de terminal), postman (colección de la API), herramientas
 ```
 
 ## Probar la API
